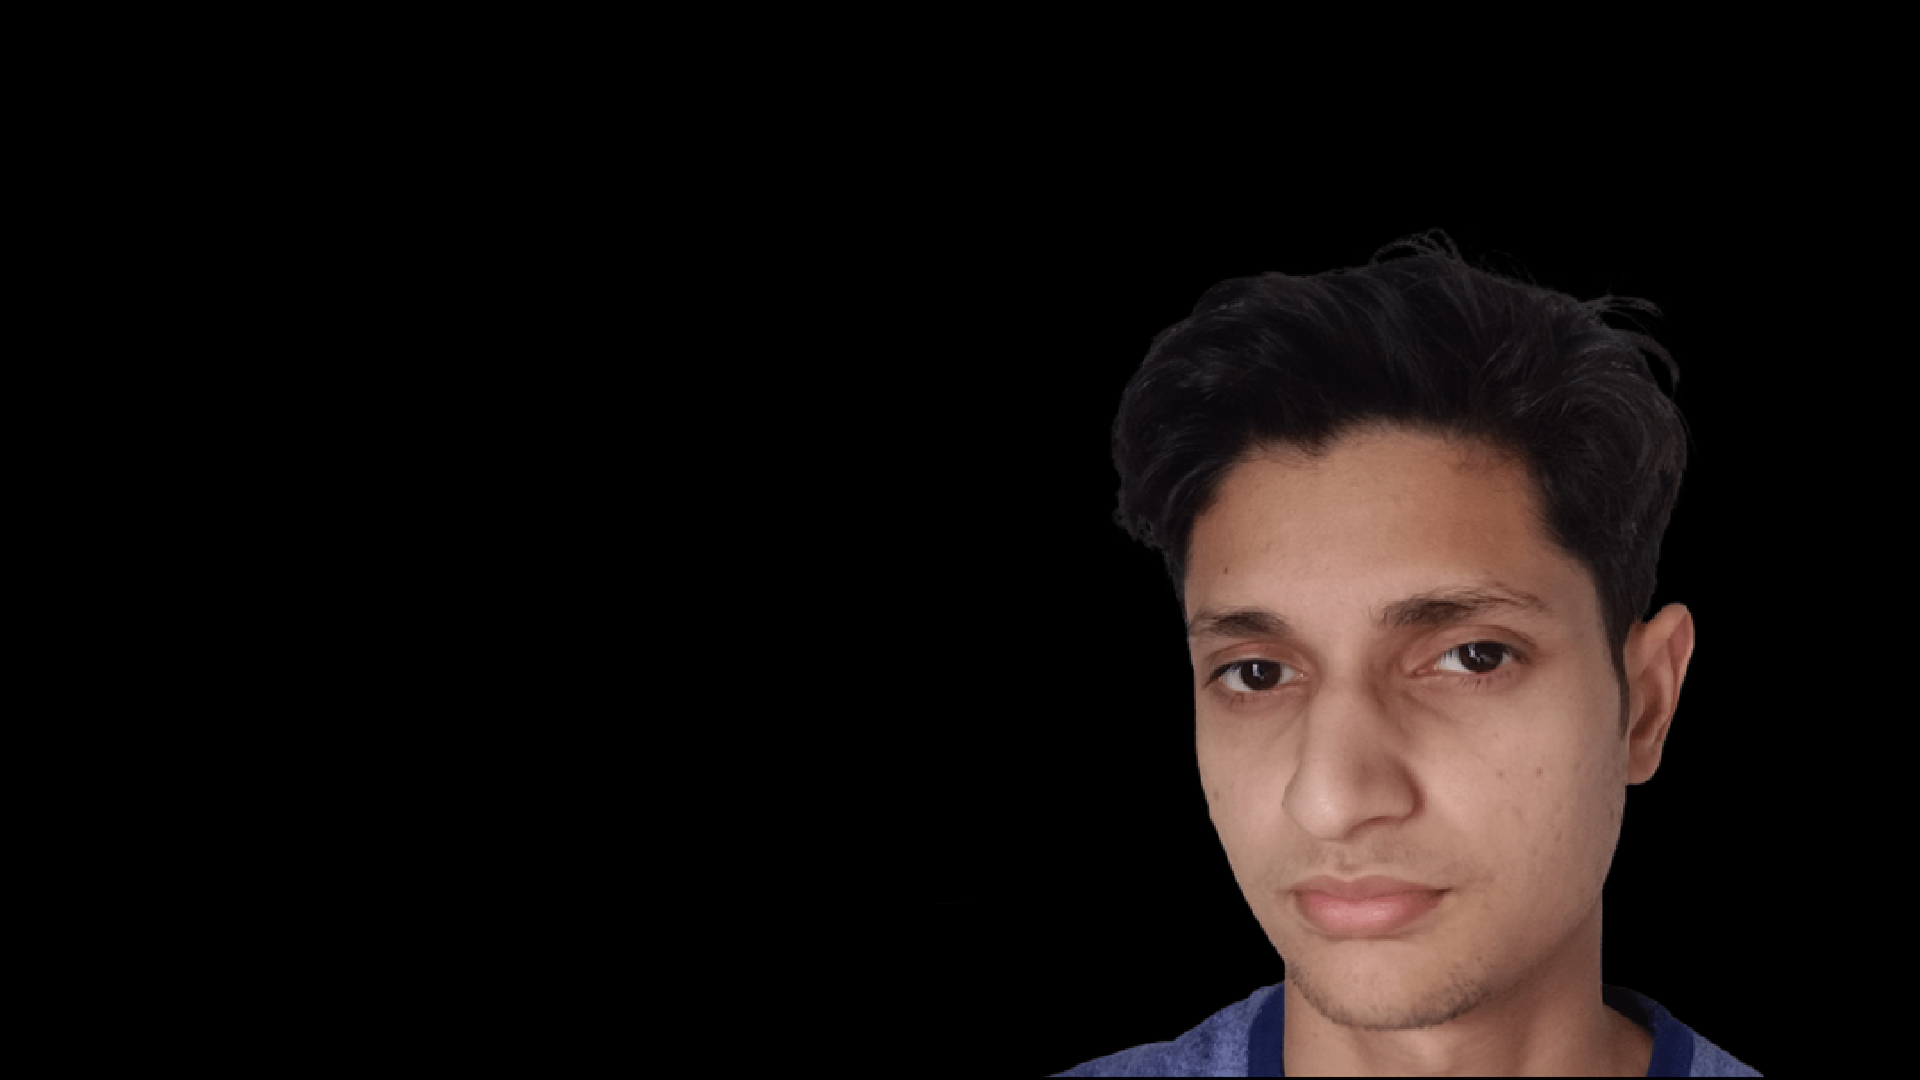
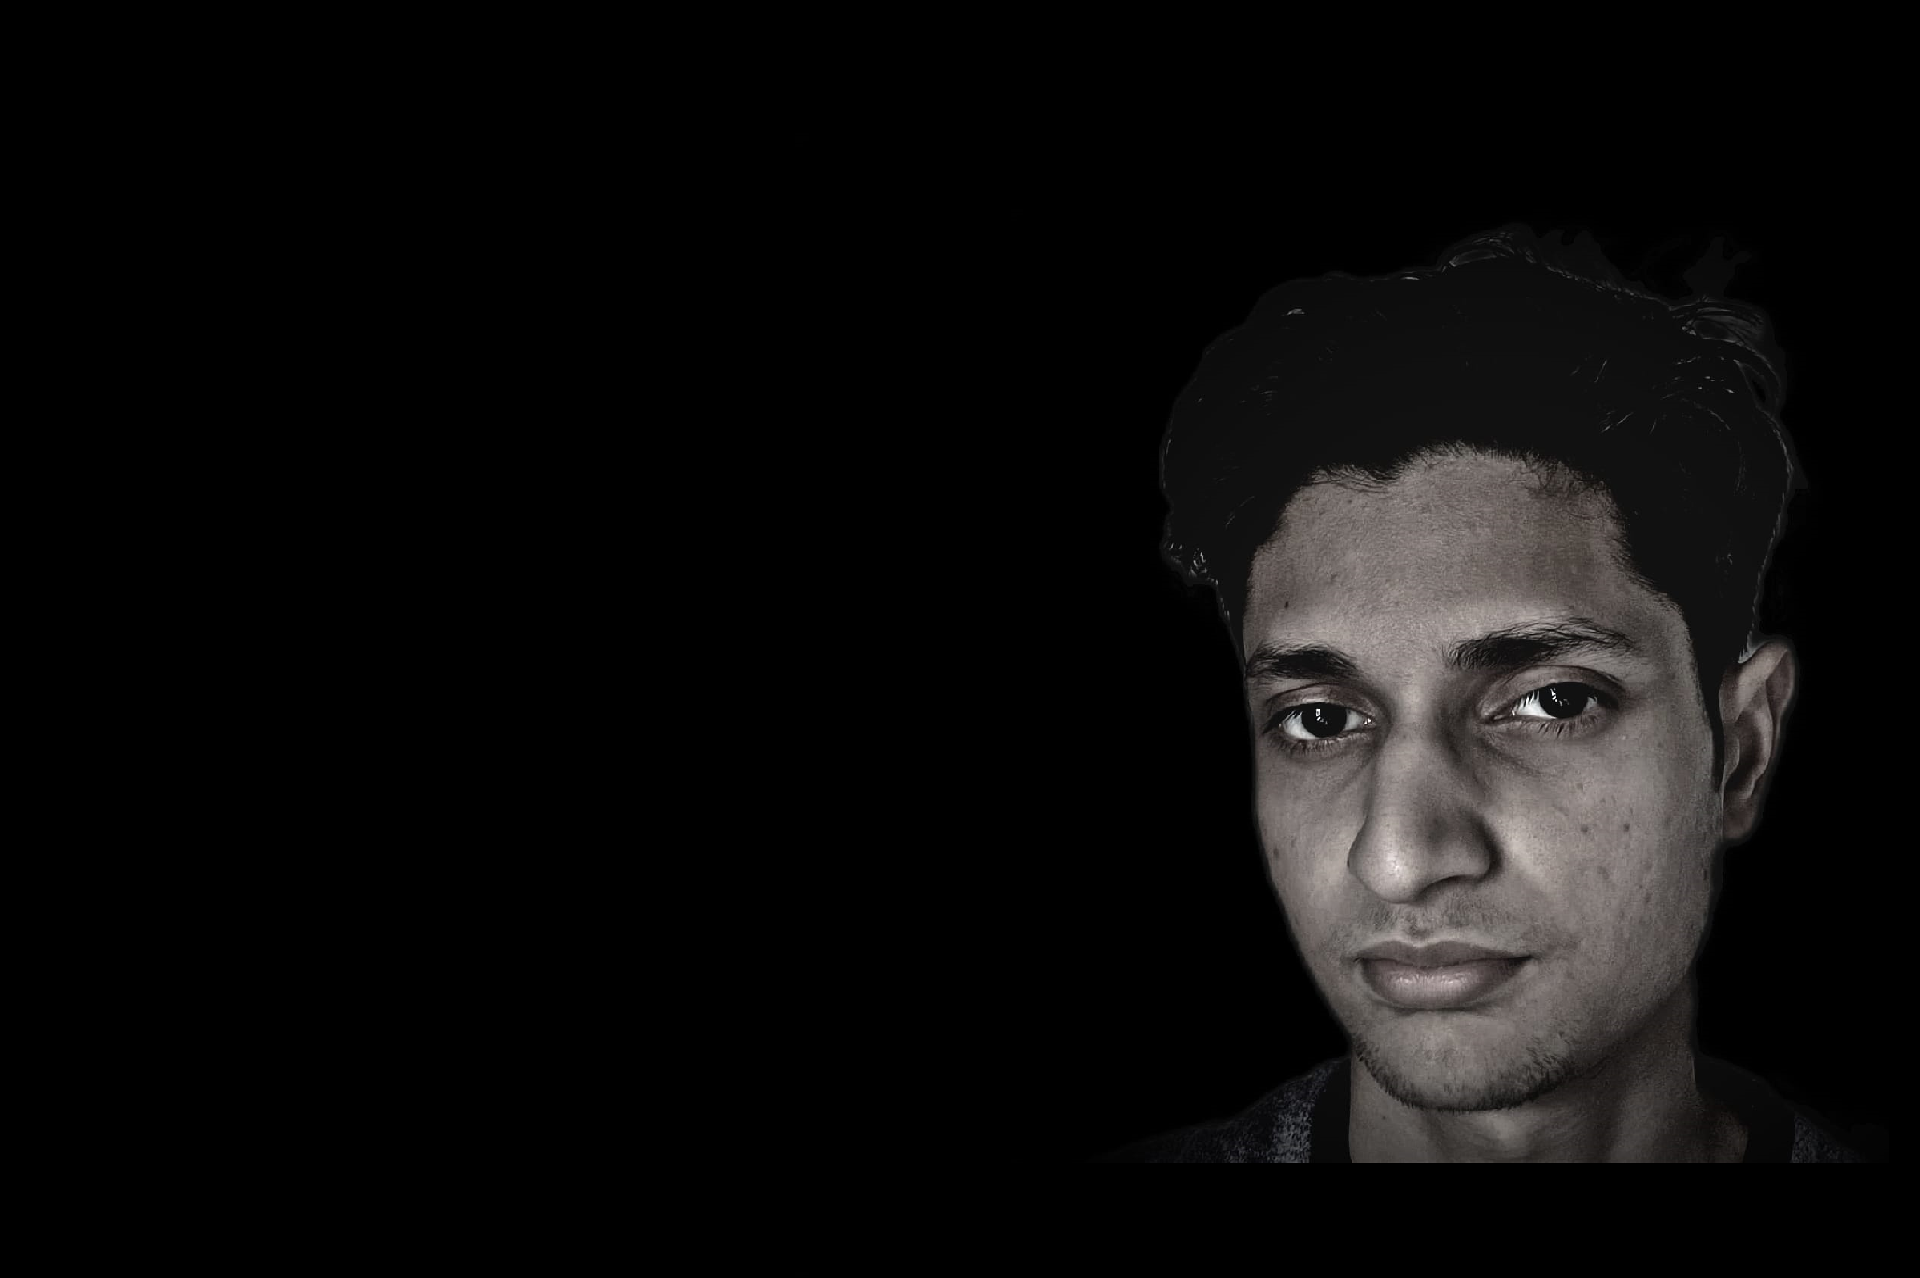
photo update

diff --git a/style.css b/style.css
@@ -408,7 +408,7 @@ nav.fas {
 
 @media only screen and (max-width: 900px) {
     #header {
-        background-image: url(images/media\ hero\ 2.png)
+        background-image: url(images/media\ hero\ 2\ black.png)
     }
  
     .header-text {
